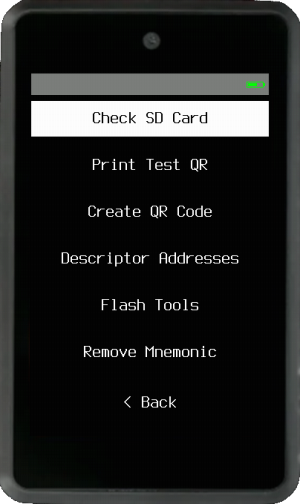
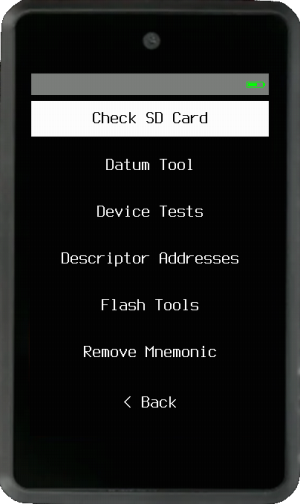
Docs: update mobile android app links (#642)
* update mobile android app docs links

* Added  The Bitcoin Hardware Store video tutorial

Changed region(s): [[0.3, 0.2976, 0.69, 0.3571], [0.39, 0.3869, 0.72, 0.4464], [0.3, 0.3869, 0.36, 0.4464]]

diff --git a/docs/getting-started/usage/loading-a-mnemonic.en.md b/docs/getting-started/usage/loading-a-mnemonic.en.md
@@ -8,7 +8,7 @@ Once you have either a 12 or 24-word [BIP39 mnemonic](https://github.com/bitcoin
 <img src="../../../img/maixpy_amigo/load-mnemonic-camera-options-300.png" align="right" class="amigo">
 
 ### Via Camera
-You can choose to use the camera to scan a `QR code`, `Tiny Seed`, `OneKey KeyTag` or a `Binary Grid`.
+You can choose to use the camera to scan a `QR code`, `Tinyseed`, `OneKey KeyTag` or a `Binary Grid`. Learn more about these [metal backups here](../features/tinyseed.en.md).
 
 ----8<----
 camera-scan-tips.en.txt
@@ -28,16 +28,16 @@ It's unpleasant having to manually enter 12 or 24 words every time you want to u
 After opening a wallet via one of the methods available you can use Krux to [backup the mnemonic](navigating-the-main-menu.md#backup-mnemonic) as QR code, [transcribe](../features/QR-transcript-tools.md) them to paper or metal using the transcription helpers or attach a thermal printer to your Krux and print out the mnemonic as QR. Check out the [printing section](../features/printing.md) for more information.
 You can also use [an offline QR code generator for this](https://iancoleman.io/bip39/) (ideally on an airgapped device).
 
-#### Tiny Seed, OneKey KeyTag or Binary Grid
-[Tiny Seed](https://tinyseed.io/), [Onekey KeyTag](https://onekey.so/products/onekey-keytag/) and others directly encode a seed as binary, allowing for a very compact mnemonic storage. Krux devices have machine vision capabilities that allow users to scan these metal plates and instantly load mnemonics engraved on them (this feature is not available in Krux Android app).
+#### Tinyseed, OneKey KeyTag or Binary Grid
+[Tinyseed](https://tinyseed.io/), [Onekey KeyTag](https://onekey.so/products/onekey-keytag/) and others directly encode a seed as binary, allowing for a very compact mnemonic storage. Krux devices have machine vision capabilities that allow users to scan these metal plates and instantly load mnemonics engraved on them (this feature is not available in [Krux Mobile Android app](../../faq.md#what-is-krux-mobile-android-app)).
 
-To properly scan, place the backup plate over a black background and paint the punched bits black to increase contrast. You can also scan the thermally printed version, or a filled template. You can find some [examples of mnemonics encoded here](../features/tinyseed.md). Alternatively, you can find [templates to scan or print here](https://github.com/odudex/krux_binaries/tree/main/templates).
+To ensure a proper scan, place the backup plate over a black background and fill in the punched areas with black to enhance contrast. Alternatively, you can scan a [thermally printed version](../features/printing.en.md) or a completed template. You can view some [examples of encoded mnemonics here](../features/tinyseed.md), and explore our [available transcription templates here](../templates/templates.md).
 
 ### Via Manual Input
 <img src="../../../img/maixpy_m5stickv/load-mnemonic-manual-options-250.png" align="right" class="m5stickv">
 <img src="../../../img/maixpy_amigo/load-mnemonic-manual-options-300.png" align="right" class="amigo">
 
-Manually type `Words`, `Word Numbers`, `Tiny Seed` (toggle the bits or punches) or [`Stackbit 1248`](https://stackbit.me/produto/stackbit-1248/).
+Manually type `Words`, `Word Numbers`, `Tinyseed` (toggle the bits or punches) or [`Stackbit 1248`](https://stackbit.me/produto/stackbit-1248/).
 
 <div style="clear: both"></div>
 
@@ -61,7 +61,7 @@ You can also enter your BIP39 mnemonic word's numbers (1-2048) in hexadecimal fo
 
 <div style="clear: both"></div>
 
-#### Tiny Seed (Bits)
+#### Tinyseed (Bits)
 <img src="../../../img/maixpy_m5stickv/load-mnemonic-via-tinyseed-filled-250.png" align="right" class="m5stickv">
 <img src="../../../img/maixpy_amigo/load-mnemonic-via-tinyseed-filled-300.png" align="right" class="amigo">
 

diff --git a/docs/faq.en.md b/docs/faq.en.md
@@ -7,18 +7,18 @@ Krux does not include hardware secure elements. The security of stored data reli
 
 **Note**: Due to the inherent fragility of electronic components, never use your Krux device or SD card encrypted storage as your sole backup method. Always maintain a physical backup for added security.
 
-## What is Beta version?
-The Beta version includes the latest and most experimental features, which we occasionally share on our social media. These can be found exclusively in the [test (beta) repository](https://github.com/odudex/krux_binaries/). Use and flash the beta firmware if you are curious about new features or want to participate in the development process by hunting bugs, providing feedback, and sharing ideas in our Telegram groups or other social media platforms.
+## What is the test (beta) version?
+The test (beta) version includes the latest and most experimental features, which we occasionally share on our social media. The firmware can be found exclusively in the [test (beta) repository](https://github.com/odudex/krux_binaries). Use and flash the beta firmware if you are curious about new features or want to participate in the development process by hunting bugs, providing feedback, and sharing ideas in our Telegram groups or other social media platforms.
 
-For regular use, flash the official releases, which are signed, thoroughly tested, and well-documented.
+Just remember that for regular use, use the official versions, which are signed, thoroughly tested, and well documented.
 
-## What is Krux Android app?
+## What is Krux Mobile Android app?
 
 ### How can I find it?
-The Krux Android app is available as an APK in the [test (beta) repository](https://github.com/odudex/krux_binaries/tree/main/Android). It requires Android 6.0 or above.
+The Krux Mobile Android app is considered a test (beta) and is available as an APK at [KruxMobileApp](https://github.com/selfcustody/KruxMobileApp). It requires Android 6.0 or above.
 
 ### How can I install it?
 The APK is not available on the Play Store. You can download the APK directly or transfer it to your Android device via SD card or USB cable. To install it, you may need to configure your Android device to allow installations from unknown sources.
 
 ### Is it safe to use?
-The Krux Android app is designed for learning about Krux and Bitcoin air-gapped transactions. Due to the numerous potential vulnerabilities inherent in smartphones, such as the lack of control over the operating system, libraries, and hardware peripherals, the Krux app **should NOT be used** to manage wallets containing savings or **important keys and mnemonics**. For secure management of your keys, **a dedicated device** is recommended.
+The Krux Mobile Android app is designed for learning about Krux and Bitcoin air-gapped transactions. Due to the numerous potential vulnerabilities inherent in smartphones, such as the lack of control over the operating system, libraries, and hardware peripherals, the Krux app **should NOT be used** to manage wallets containing savings or **important keys and mnemonics**. For secure management of your keys, **a dedicated device** is recommended.

diff --git a/docs/getting-started/templates/templates.en.md b/docs/getting-started/templates/templates.en.md
@@ -1,4 +1,4 @@
-Here we offer a few templates to [transcribe QR codes](../features/QR-transcript-tools.md), TinySeed or Binary Grid backups.
+Here we offer a few templates to [transcribe QR codes](../features/QR-transcript-tools.md), [Tinyseed or Binary Grid](../features/tinyseed.en.md) backups.
 
 ## QR Code Templates
 You can manually copy compact SeedQR codes or place a proper sized template over the device screen.
@@ -90,22 +90,22 @@ SVG: [Dots](../QR/svg/qr_v4_dots_regions.svg), [Lines](../QR/svg/qr_v4_lines_reg
 <div style="clear: both"></div>
 SVG: [Dots](../QR/svg/qr_v5_dots_regions.svg), [Lines](../QR/svg/qr_v5_lines_regions.svg), [Dots and Lines](../QR/svg/qr_v5_dots_lines_regions.svg)
 
-## TinySeed Templates
+## Tinyseed Templates
 
-TinySeed background of blank templates to be manually filled.
+[Tinyseed](../features/tinyseed.en.md) background of blank templates to be manually filled.
 
 <div style="clear: both"></div>
 
 <a href="../tiny_seed_scan_background.png">
-  <img src="../tiny_seed_scan_background.png" alt="TinySeed Scan Background" style="width: 15%; float: left; margin-left: 10px;">
+  <img src="../tiny_seed_scan_background.png" alt="Tinyseed Scan Background" style="width: 15%; float: left; margin-left: 10px;">
 </a>
 
 <a href="../tiny_seed_template.png">
-  <img src="../tiny_seed_template.png" alt="TinySeed Scan Background" style="width: 15%; float: left; margin-left: 10px;">
+  <img src="../tiny_seed_template.png" alt="Tinyseed Scan Background" style="width: 15%; float: left; margin-left: 10px;">
 </a>
 
 <a href="../tiny_seed_template_24w.png">
-  <img src="../tiny_seed_template_24w.png" alt="TinySeed Scan Background" style="width: 22%; float: left; margin-left: 10px;">
+  <img src="../tiny_seed_template_24w.png" alt="Tinyseed Scan Background" style="width: 22%; float: left; margin-left: 10px;">
 </a>
 
 
@@ -113,16 +113,16 @@ TinySeed background of blank templates to be manually filled.
 
 ## Binary Grid Templates
 
-Binary Grid labeled and and "stealth" clean templates
+[Binary Grid](../features/tinyseed.en.md) labeled and and "stealth" clean templates.
 
 <div style="clear: both"></div>
 
 <a href="../Krux_Binary_Grid_double_rev1.png">
-  <img src="../Krux_Binary_Grid_double_rev1.png" alt="TinySeed Scan Background" style="width: 30%; float: left; margin-left: 10px;">
+  <img src="../Krux_Binary_Grid_double_rev1.png" alt="Tinyseed Scan Background" style="width: 30%; float: left; margin-left: 10px;">
 </a>
 
 <a href="../Krux_Binary_Grid_double_clean_rev1.png">
-  <img src="../Krux_Binary_Grid_double_clean_rev1.png" alt="TinySeed Scan Background" style="width: 30%; float: left; margin-left: 10px;">
+  <img src="../Krux_Binary_Grid_double_clean_rev1.png" alt="Tinyseed Scan Background" style="width: 30%; float: left; margin-left: 10px;">
 </a>
 
 <div style="clear: both"></div>

diff --git a/docs/getting-started/installing/from-test-release.en.md b/docs/getting-started/installing/from-test-release.en.md
@@ -4,10 +4,10 @@ This page explains how to install Krux from a test (beta), pre-built release.
 Keep in mind that these are unsigned binaries.
 
 ### Download
-Download experimental compiled firmware or the Android app `apk` from our [test (beta) repository](https://github.com/odudex/krux_binaries).
+Download experimental compiled firmware at [test (beta) repository](https://github.com/odudex/krux_binaries) or the Mobile Android app `apk` at [KruxMobileApp](https://github.com/selfcustody/KruxMobileApp).
 
-#### Android
-The [Krux Android app](../../faq.md#what-is-krux-android-app) is designed for learning about Krux and Bitcoin air-gapped transactions. Due to the numerous potential vulnerabilities inherent in smartphones, such as the lack of control over the operating system, libraries, and hardware peripherals, the Krux app should NOT be used to manage wallets containing savings or important keys and mnemonics. For secure management of your keys, a dedicated device is recommended.
+#### Mobile - Android
+The [Krux Mobile Android app](../../faq.md#what-is-krux-mobile-android-app) is designed for learning about Krux and Bitcoin air-gapped transactions. Due to the numerous potential vulnerabilities inherent in smartphones, such as the lack of control over the operating system, libraries, and hardware peripherals, the Krux app should NOT be used to manage wallets containing savings or important keys and mnemonics. For secure management of your keys, a dedicated device is recommended.
 
 #### Compiled firmware for Kendryte K210 devices
 #### M5StickV

diff --git a/docs/getting-started/features/tools.en.md b/docs/getting-started/features/tools.en.md
@@ -12,6 +12,9 @@ Verify whether your device detects and reads the SD card, and browse its content
 <div style="clear: both"></div>
 
 ### Device Tests
+<img src="../../../img/maixpy_m5stickv/device-tests-options-250.png" align="right" class="m5stickv">
+<img src="../../../img/maixpy_amigo/device-tests-options-300.png" align="right" class="amigo">
+
 Simple tests to verify correct functioning of your krux device.
 
 <div style="clear: both"></div>
@@ -20,9 +23,9 @@ Simple tests to verify correct functioning of your krux device.
 <img src="../../../img/maixpy_m5stickv/print-test-qr-250.png" align="right" class="m5stickv">
 <img src="../../../img/maixpy_amigo/print-test-qr-300.png" align="right" class="amigo">
 
-<div style="clear: both"></div>
-
 Quickly print a test QR code to check and optimize your printer setup.
+
+<div style="clear: both"></div>
 
 #### Test Suite
 <img src="../../../img/maixpy_m5stickv/device-tests-test-suite-250.png" align="right" class="m5stickv">

diff --git a/docs/getting-started/features/printing.en.md b/docs/getting-started/features/printing.en.md
@@ -3,7 +3,7 @@
 warning-printer.en.txt
 ----8<----
 
-Krux has the ability to print mnemonic backup (Words, Numbers, Tiny Seed template; but not Stackbit 1248) and any QR code (SeedQR, signed PSBT, Address, XPUB, Wallet output descriptor, ...) via a locally-connected TTL serial thermal printer. Consult the [parts list](../../parts.md/#optional-ttl-serial-thermal-printer) page for supported printers.
+Krux has the ability to print mnemonic backup (Words, Numbers, Tinyseed template; but not Stackbit 1248) and any QR code (SeedQR, signed PSBT, Address, XPUB, Wallet output descriptor, ...) via a locally-connected TTL serial thermal printer. Consult the [parts list](../../parts.md/#optional-ttl-serial-thermal-printer) page for supported printers.
 
 <img src="../../../img/maixpy_amigo/print-qr-printing-300.png" class="amigo">
 <img src="../../../img/maixpy_m5stickv/print-qr-printing-250.png" class="m5stickv">

diff --git a/docs/getting-started/features/QR-transcript-tools.en.md b/docs/getting-started/features/QR-transcript-tools.en.md
@@ -1,4 +1,4 @@
-When you export a mnemonic, encrypted mnemonic or a generic text QR code, alternative visualization modes will be available. Swipe left :material-gesture-swipe-left: or right :material-gesture-swipe-right: to change modes, or if your device doesn't have a touchscreen, press the `PAGE` buttons. Find transcribe templates [here](https://github.com/odudex/krux_binaries/tree/main/templates).
+When you export a mnemonic, encrypted mnemonic or a generic text QR code, alternative visualization modes will be available. Swipe left :material-gesture-swipe-left: or right :material-gesture-swipe-right: to change modes, or if your device doesn't have a touchscreen, press the `PAGE` buttons. See our [available transcribe templates](../templates/templates.md).
 
 ### Standard Mode
 <img src="../../../img/maixpy_m5stickv/standard-qr-code-250.png" align="right" class="m5stickv">

diff --git a/docs/parts.en.md b/docs/parts.en.md
@@ -44,7 +44,7 @@ Below is a list of some distributors where you can find this device:
 - [Digi-Key](https://www.digikey.com/en/products/detail/m5stack-technology-co-ltd/K027/10492135)
 - [Electromaker](https://www.electromaker.io/shop/product/m5stickv-k210-ai-camera-without-wifi)
 - [Lee's Electronic](https://leeselectronic.com/en/product/169940-m5stick-ai-camera-kendryte-k210-risc-v-core-no-wifi.html)
-- [AliExpress](https://www.aliexpress.com/w/wholesale-m5stickv.html)
+- [AliExpress](https://www.aliexpress.com/w/wholesale-stickv-k210.html)
 - [ABRA](https://abra-electronics.com/sensors/cameras/m5stickv-k210-ai-camera-ideal-for-machine-vision.html)
 - [Adafruit](https://www.adafruit.com/product/4321)
 - [Cytron](https://www.cytron.io/c-development-tools/c-fpga/p-m5stickv-k210-ai-camera-without-wifi)

diff --git a/docs/getting-started/usage/video-tutorials.en.md b/docs/getting-started/usage/video-tutorials.en.md
@@ -44,6 +44,13 @@ Bitcoin Security for Under $50: Building a Krux Hardware Wallet - Sovereign Mone
 </div>
 </div>
 
+<div markdown="1" class="video">
+[![
+Self-Custody Krux - Hardware Wallet Tutorial](https://img.youtube.com/vi/L7uAG5Cyx5o/0.jpg)](https://www.youtube.com/watch?v=L7uAG5Cyx5o)
+
+Self-Custody Krux Hardware Wallet Tutorial - The Bitcoin Hardware Store
+</div>
+
 <div class="clear"></div>
 
 ## Portuguese

diff --git a/docs/getting-started/features/tinyseed.en.md b/docs/getting-started/features/tinyseed.en.md
@@ -1,7 +1,7 @@
 ## Background
 The examples below have been created so that you can test the workflow for scanning both 12 and 24 word mnemonics (the left plate only for a 12 word mnemonic and both plates for 24). The resulting fingerprint from an successful scan is also incldued in the image.
 
-### TinySeed
+### Tinyseed
 ![](../../img/tinyseed_binarygrid/tinyseed.jpg)
 
 ### OneKey KeyTag

diff --git a/docs/getting-started/usage/navigating-the-main-menu.en.md b/docs/getting-started/usage/navigating-the-main-menu.en.md
@@ -101,7 +101,7 @@ This metal backup format represents the BIP39 mnemonic word's numbers (1-2048). 
 
 <div style="clear: both"></div>
 
-- **Tiny Seed**
+- **Tinyseed**
 
 <img src="../../../img/maixpy_m5stickv/backup-tiny-seed-250.png" align="right" class="m5stickv">
 <img src="../../../img/maixpy_amigo/backup-tiny-seed-300.png" align="right" class="amigo">
